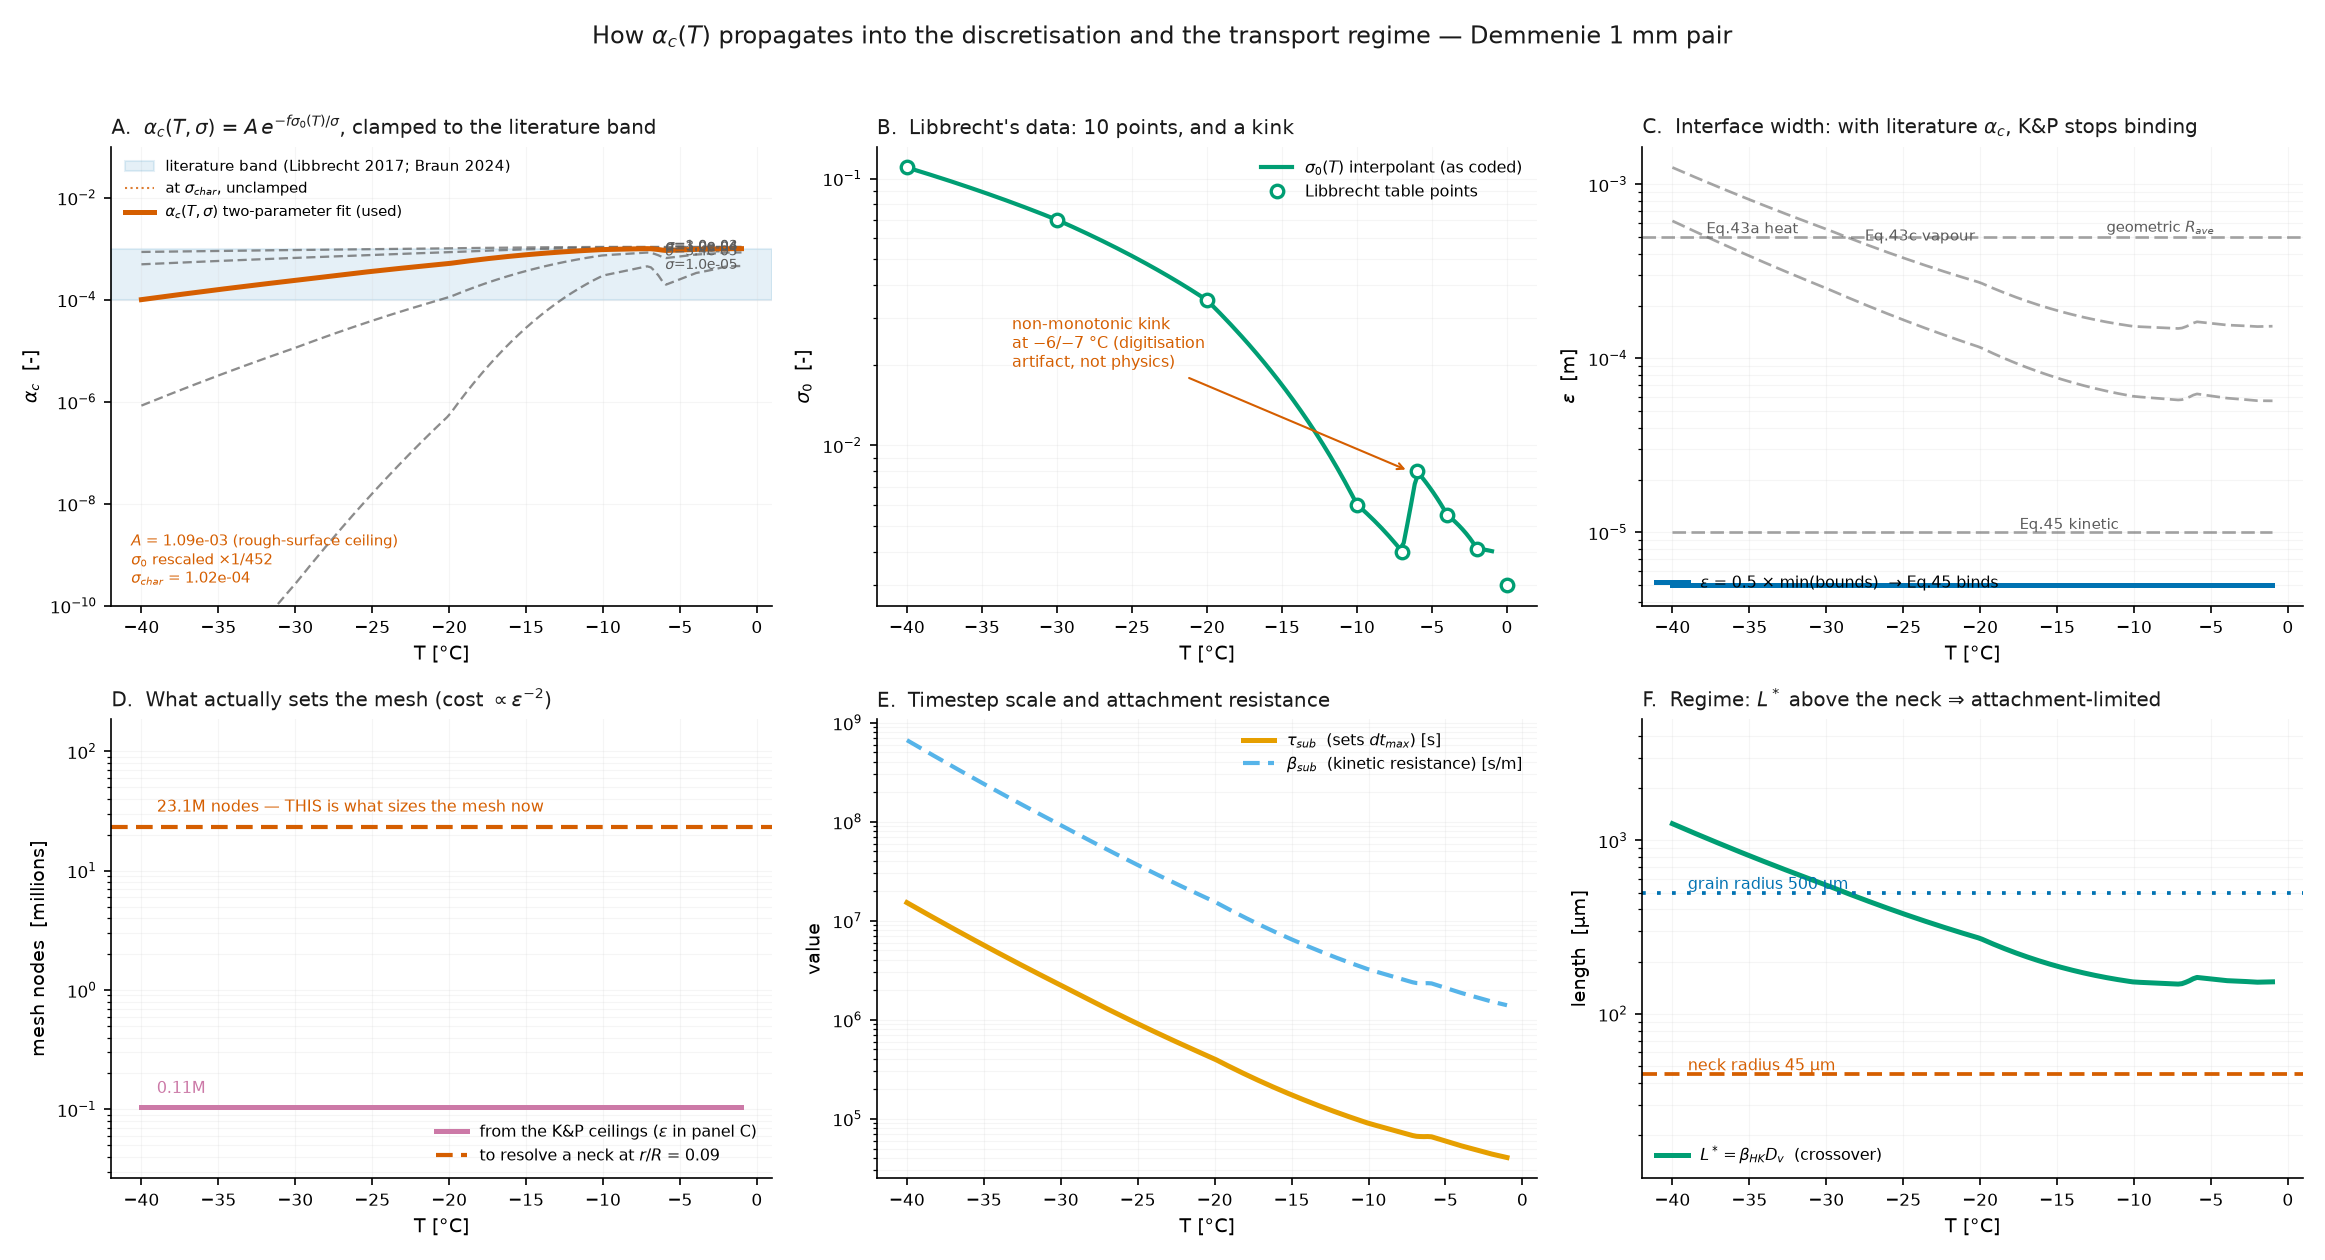
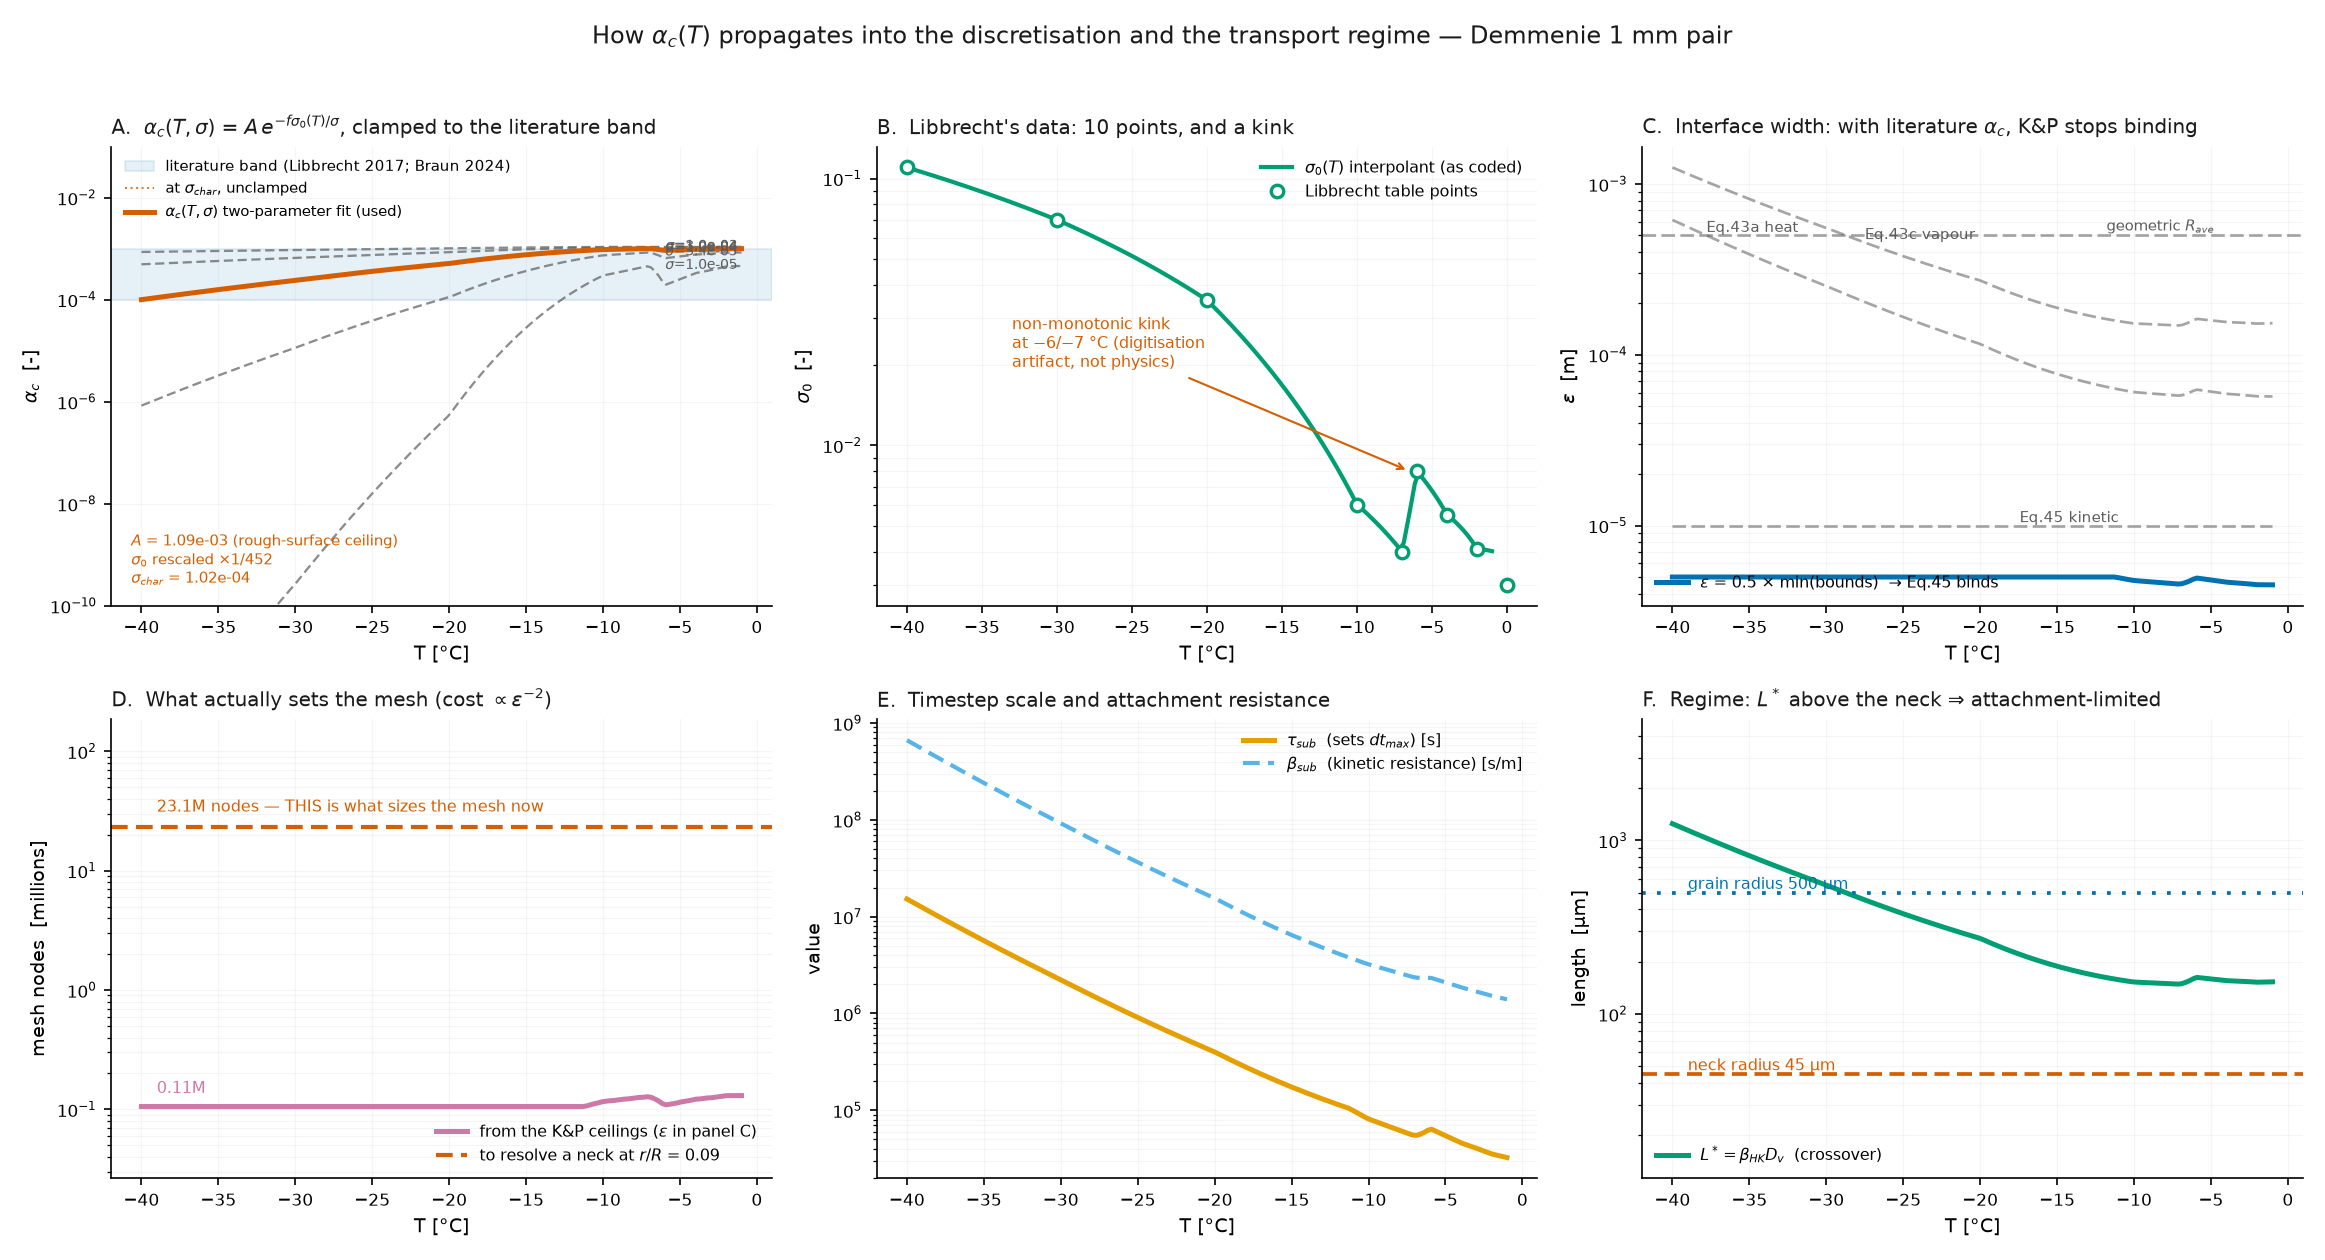
Explain an intractable mesh instead of emitting one silently
Enforcing Eq. 42 per channel is only affordable when alpha_c is physical. At
alpha_c = 9.0e-2 the ice thermal channel drives eps to 1.0e-7 and the mesh to
1048M nodes -- which is almost certainly why an averaged, 6.3x looser 'heat'
bound was used instead. That is a legitimate engineering tradeoff, and the
tool should surface it rather than let it be discovered by staring at Nx.

comp_eps now flags any config whose grid exceeds 5e7 nodes, names the binding
bound, and points at the actual cause: the ceiling scales as beta_HK ~ 1/alpha_c,
so an intractable mesh is nearly always a sign that alpha_c is too LARGE, not
that the mesh must be that fine.

The tradeoff turns out to be gone at the literature alpha_c. Thin-interface
ratio beta_eff/beta = 1 - a1*a2*W/(D*beta), which is the quantitative form of
Eq. 42's 'W << D*beta0', evaluated at the eps the NECK FLOOR already demands
(3.1776e-7):

                        ice      air   vapour
  alpha_c 9.007e-2   -1.505    0.785    0.851
  alpha_c 9.84e-4     0.973    0.998    0.998

At the old alpha_c the ice channel ratio is NEGATIVE -- beta_eff carries the
wrong sign and W is ~3x larger than D_ice*beta, a gross Eq. 42a violation that
comp_eps has been printing all along. At the literature alpha_c all three
channels clear 0.97 at the same mesh, so Eq. 42 and a tractable grid stop
being in tension.

diff --git a/projects/enceladus_DSM/preprocess/comp_eps.py b/projects/enceladus_DSM/preprocess/comp_eps.py
@@ -597,6 +597,18 @@ def compute_eps(
     }
     eps_max = min(bounds.values())
     binding = min(bounds, key=bounds.get)
+
+    # Enforcing Eq. 42 rigorously is only affordable when alpha_c is physical.
+    # At alpha_c ~ 1e-1 the ice thermal channel drives eps to ~5e-8 and the mesh
+    # to ~1e9 nodes -- which is presumably why an averaged, 6.3x looser "heat"
+    # bound was used instead. That is a real engineering tradeoff and it should
+    # be visible, not discovered by staring at Nx. Say so loudly rather than
+    # emitting an intractable grid in silence.
+    _n_est = 1
+    for _L in (Lx, Ly, Lz):
+        if _L > 0:
+            _n_est *= math.ceil(_L * math.sqrt(2.0) / (safety * eps_max))
+    intractable = _n_est > 5.0e7
     eps     = safety * eps_max
 
     # Mesh: h = eps/sqrt(2) → ~7.5 elements across phi=0.05–0.95 visible band
@@ -670,6 +682,7 @@ def compute_eps(
         corr_thermal=dpf["corr_thermal"],
         corr_vapor=dpf["corr_vapor"],
         kinetic_frac=kinetic_frac,
+        intractable=intractable,
         beta_ratio_heat_ice=dpf["beta_ratio_heat_ice"],
         beta_ratio_heat_air=dpf["beta_ratio_heat_air"],
         beta_ratio_vapor=dpf["beta_ratio_vapor"],
@@ -805,6 +818,17 @@ def _print_single(args, p: dict, alpha_c: float, dim: int) -> None:
         print(f"  {label}  =  {p[key]:.4e} m{marker}")
 
     h = p['eps'] / math.sqrt(2.0)
+    if p.get("intractable"):
+        print(f"\n  *** MESH IS INTRACTABLE: {p['Nx']} x {p.get('Ny',1)} "
+              f"= {p['Nx']*max(p.get('Ny',1),1)/1e6:.0f}M nodes ***")
+        print(f"      Driven by {p['binding']} = {p['eps_max']:.3e} m.")
+        print(f"      K&P Eq. 42 (W << D·β₀) is enforced per channel, and the ICE")
+        print(f"      thermal channel D = κᵢ/Cᵢ = 1.27e-06 is ~12x below Dᵥ, so it")
+        print(f"      dominates. The ceiling scales with β_HK ∝ 1/α_c, so this is")
+        print(f"      almost always a sign that α_c is too LARGE, not that the mesh")
+        print(f"      must be this fine: α_c = 1e-3 lifts every Eq. 42 ceiling ~100x.")
+        print(f"      Check --alpha_arrhenius / --alpha_libbrecht2 before overriding.")
+
     print(f"\n--- Chosen ε and mesh ---")
     print(f"  ε                        = {p['eps']:.4e}  m")
     print(f"  h = ε/√2                 = {h:.4e}  m    (mesh rule: ~7.5 elements across phi=0.05-0.95)")
